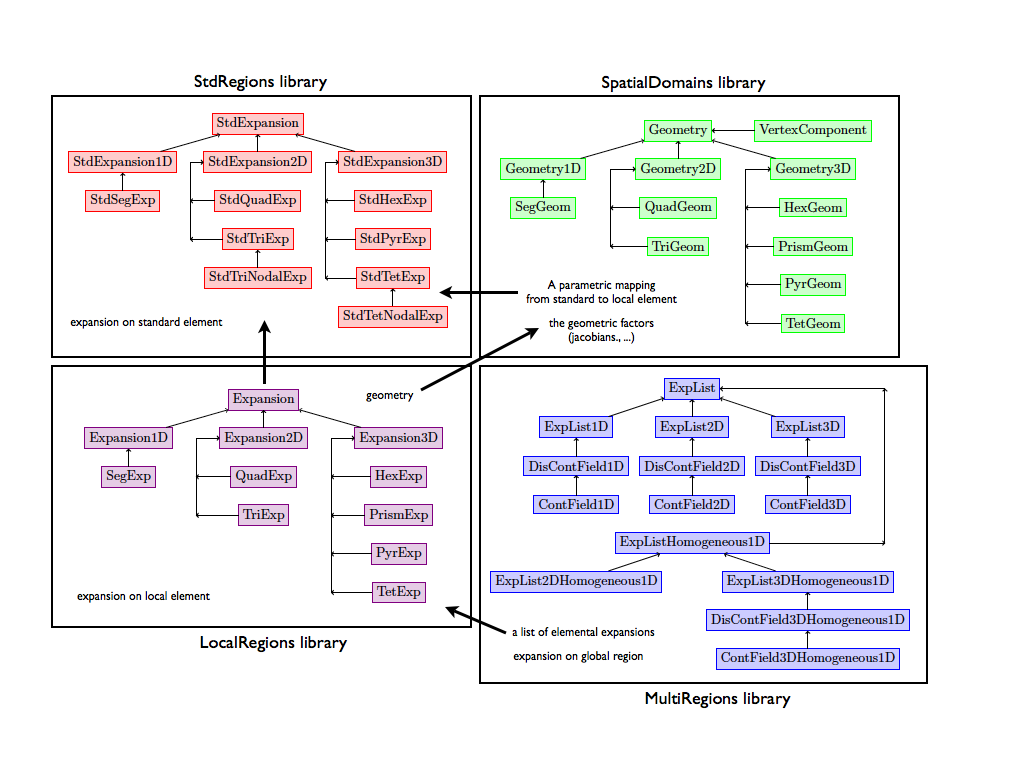
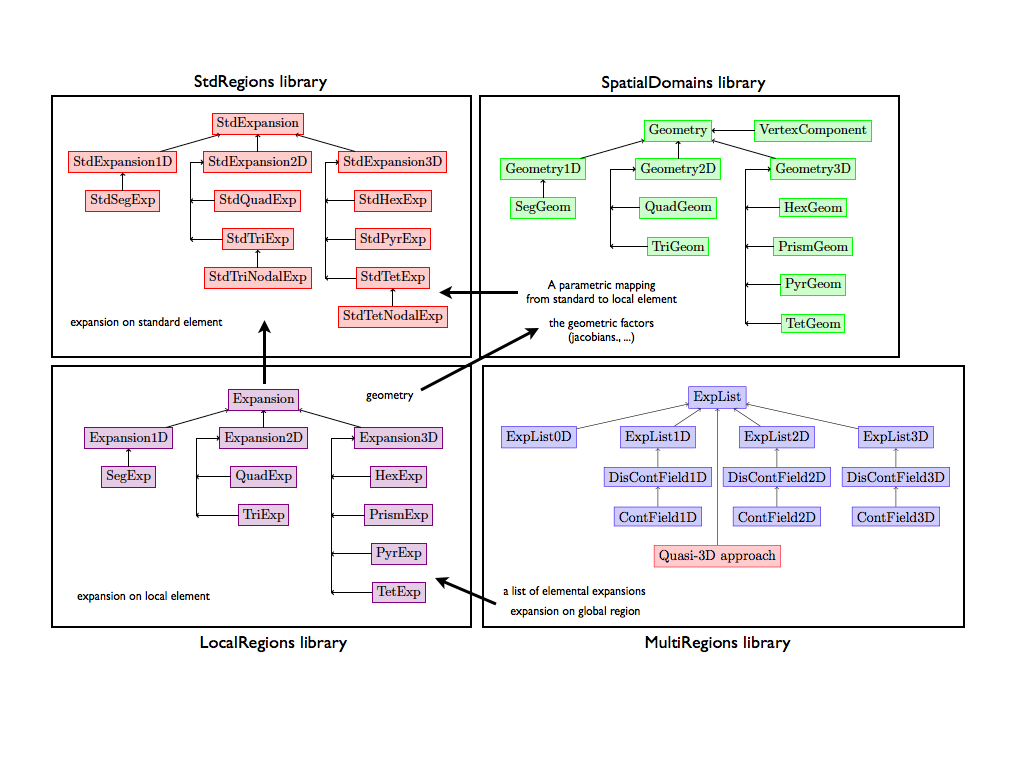
Documentation Quasi-3D approach (first part) Fixed input files for IncNS solver
git-svn-id: https://gforge.sci.utah.edu/svn/nektar/trunk@3050 305cdda6-5ce1-45b3-a98d-dfc68c8b3305

Changed region(s): [[0.4062, 0.4688, 0.9375, 0.9375]]

diff --git a/docs/html/doxygen/diagrams/MultiRegions.tex b/docs/html/doxygen/diagrams/MultiRegions.tex
@@ -11,35 +11,29 @@
 %NODES
 
 % level (1) 
-\node [outline=blue] (ExpList)                                   at (3,0)          {ExpList};
+\node [outline=blue] (ExpList)                                   at (4.5,0)          {ExpList};
 % level (2) y = -2
-\node [outline=blue] (ExpList1D)                              at (0,-1)        {ExpList1D};
-\node [outline=blue] (ExpList2D)                              at (3,-1)        {ExpList2D};
-\node [outline=blue] (ExpList3D)                              at (6,-1)        {ExpList3D};
+\node [outline=blue] (ExpList0D)                              at (0,-1)        {ExpList0D};
+\node [outline=blue] (ExpList1D)                              at (3,-1)        {ExpList1D};
+\node [outline=blue] (ExpList2D)                              at (6,-1)        {ExpList2D};
+\node [outline=blue] (ExpList3D)                              at (9,-1)        {ExpList3D};
 % level (4) 
-\node [outline=blue] (DisContField1D)                    at (0,-2)         {DisContField1D};
-\node [outline=blue] (DisContField2D)                    at (3,-2)         {DisContField2D};
-\node [outline=blue] (DisContField3D)                    at (6,-2)         {DisContField3D};
+\node [outline=blue] (DisContField1D)                    at (3,-2)         {DisContField1D};
+\node [outline=blue] (DisContField2D)                    at (6,-2)         {DisContField2D};
+\node [outline=blue] (DisContField3D)                    at (9,-2)         {DisContField3D};
 % level (5) y 
-\node [outline=blue] (ContField1D)                    at (0,-3)         {ContField1D};
-\node [outline=blue] (ContField2D)                    at (3,-3)         {ContField2D};
-\node [outline=blue] (ContField3D)                    at (6,-3)         {ContField3D};
+\node [outline=blue] (ContField1D)                    at (3,-3)         {ContField1D};
+\node [outline=blue] (ContField2D)                    at (6,-3)         {ContField2D};
+\node [outline=blue] (ContField3D)                    at (9,-3)         {ContField3D};
 % level (3) y = -3.5
-\node [outline=blue] (ExpListHomogeneous1D)                         at (3,-4)           {ExpListHomogeneous1D};
-\node [outline=blue] (ExpList2DHomogeneous1D)                    at (0,-5)           {ExpList2DHomogeneous1D};
-\node [outline=blue] (ExpList3DHomogeneous1D)                    at (6,-5)        {ExpList3DHomogeneous1D};
-\node [outline=blue] (DisContField3DHomogeneous1D)          at (6,-6)        {DisContField3DHomogeneous1D};
-\node [outline=blue] (ContField3DHomogeneous1D)                 at (6,-7)       {ContField3DHomogeneous1D};
-
+\node [outline=red] (Quasi-3D approach)                         at (4.5,-4)           {Quasi-3D approach};
 %CONNECTIONS
 
-\draw[->] (8,0) -- (ExpList);
-\draw[->] (8,-4)--(8,0);
-\draw[->](ExpListHomogeneous1D)--(8,-4);
-
-\path[<-]  (ExpList)      edge (ExpList1D)
+\path[<-]  (ExpList)      edge (ExpList0D)
+                 (ExpList)      edge (ExpList1D)
                  (ExpList)      edge (ExpList2D)
                  (ExpList)      edge (ExpList3D)
+                 (ExpList)      edge (Quasi-3D approach)
                 
                  (ExpList1D) edge (DisContField1D)
                  (ExpList2D) edge (DisContField2D)
@@ -47,14 +41,7 @@
                  
                  (DisContField1D)  edge (ContField1D)
                  (DisContField2D)  edge (ContField2D)
-                 (DisContField3D)  edge (ContField3D)
-             
-                 (ExpListHomogeneous1D) edge                 (ExpList2DHomogeneous1D)
-                 (ExpListHomogeneous1D) edge                 (ExpList3DHomogeneous1D)
-                 (ExpList3DHomogeneous1D) edge            (DisContField3DHomogeneous1D)
-                 (DisContField3DHomogeneous1D) edge (ContField3DHomogeneous1D);
-                               
-
+                 (DisContField3D)  edge (ContField3D);
 \end{tikzpicture}
 %\end{turn}
 

diff --git a/docs/html/doxygen/MultiRegions.h b/docs/html/doxygen/MultiRegions.h
@@ -36,9 +36,9 @@ namespace MultiRegions {
  * - \f$\hat{u}_n^e\f$ is the \f$n^{th}\f$ local expansion coefficient
  * - within the element \f$e\f$.
  *
- * These types of expansion are represented by the classes
+ * These types of expansion are represented by the classes ExpList0D, 
  * ExpList1D, ExpList2D and ExpList3D, depending on the dimension of the
- * problem.
+ * problem.(ExpList0D is used just to deal with boundary conditions for 1D expansions)
  *
  * <b>A multi-elemental discontinuous global expansion.</b><BR>
  * The expansions are represented by the classes
@@ -122,6 +122,23 @@ namespace MultiRegions {
  * in Nektar++ can be found \ref pageConnectivity "here".
 
  * \image html MultiRegions.png
+ 
+ * <b> Quasi-3D approach.</b><BR>
+ * The Quasi-3D approach is an extension of the 1D and the 2D spectral/hp element method.
+ * This technique permits to study 3D problems combining the spectral/hp element method with a
+ * spectral method.
+ * In the Quasi-3D approach with 1 homogenous direction, the third dimension (z-axis) is expandend
+ * with an harmonic expansion (a Fourier series). In each quadrature point of the Fourier discretisation
+ * we can find a 2D plane discretised with a 2D spectral/hp elements expasions.
+ * In the case with 2 homogeneous directions a plane is discretised with a 2D Fourier expansion (y-z palne). In each
+ * one of the quadrature point of this harmonic expansion there is a 1D spectral/hp element discretisation.
+ * The homogenous classes derive directly form ExpList, and they are ExpListHomogeneous1D and ExpListHomogeneous2D.
+ * This classes are used to represent the collections of 2D (or 1D) spectral/hp element problems which are located
+ * in the Fourier expansions quatradure points to create a 3D problem.
+ * As describer above, we can find the find the continuos or discontinuos case, depending on the spectral/hp element approach.
+ * ExpList2DHomogenenous1D and ExpList2DHomogeneous1D are used to manage boundary conditions.
+ *
+ * \image html Quasi3d.png
 **/
 }
 }

diff --git a/docs/html/doxygen/diagrams/Quasi3D.tex b/docs/html/doxygen/diagrams/Quasi3D.tex
@@ -1,0 +1,44 @@
+\documentclass{article}
+
+\usepackage{tikz}
+%\usepackage{rotating}
+ 
+
+\begin{document}
+%\begin{turn}{90}
+\begin{tikzpicture}[outline/.style={draw=#1,fill=#1!20}]
+
+%NODES
+
+% level (1) 
+\node [outline=blue] (ExpList)                                   at (4.5,0)          {ExpList};
+% level (2) y = -2
+\node [outline=red] (ExpListHomogeneous1D)                              at (1,-1)        {ExpListHomogeneous1D};
+\node [outline=red] (ExpListHomogeneous2D)                              at (8,-1)        {ExpListHomogeneous2D};
+% level (3) 
+\node [outline=red] (ExpList3DHomogeneous1D)                    at (1,-2)         {ExpList3DHomogeneous1D};
+\node [outline=red] (ExpList3DHomogeneous2D)                    at (8,-2)         {ExpList3DHomogeneous2D};
+% level (3) 
+\node [outline=red] (DisContField3DHomogeneous1D)                    at (1,-3)        {DisContField3DHomogeneous1D};
+\node [outline=red] (DisContField3DHomogeneous2D)                    at (8,-3)         {DisContField3DHomogeneous2D};
+% level (4) 
+\node [outline=red] (ContField3DHomogeneous1D)                    at (1,-4)        {ContField3DHomogeneous1D};
+\node [outline=red] (ContField3DHomogeneous2D)                    at (8,-4)         {ContField3DHomogeneous2D};
+
+%CONNECTIONS
+
+\path[<-]  (ExpList)      edge (ExpListHomogeneous1D)
+                 (ExpList)      edge (ExpListHomogeneous2D)
+                
+                 (ExpListHomogeneous1D) edge (ExpList3DHomogeneous1D)
+                 (ExpListHomogeneous2D) edge (ExpList3DHomogeneous2D)
+                 
+                 (ExpList3DHomogeneous1D)  edge (DisContField3DHomogeneous1D)
+                 (ExpList3DHomogeneous2D)  edge (DisContField3DHomogeneous2D)
+                 
+                 (DisContField3DHomogeneous1D)  edge (ContField3DHomogeneous1D)
+                 (DisContField3DHomogeneous2D)  edge (ContField3DHomogeneous2D);
+\end{tikzpicture}
+%\end{turn}
+
+\end{document}
